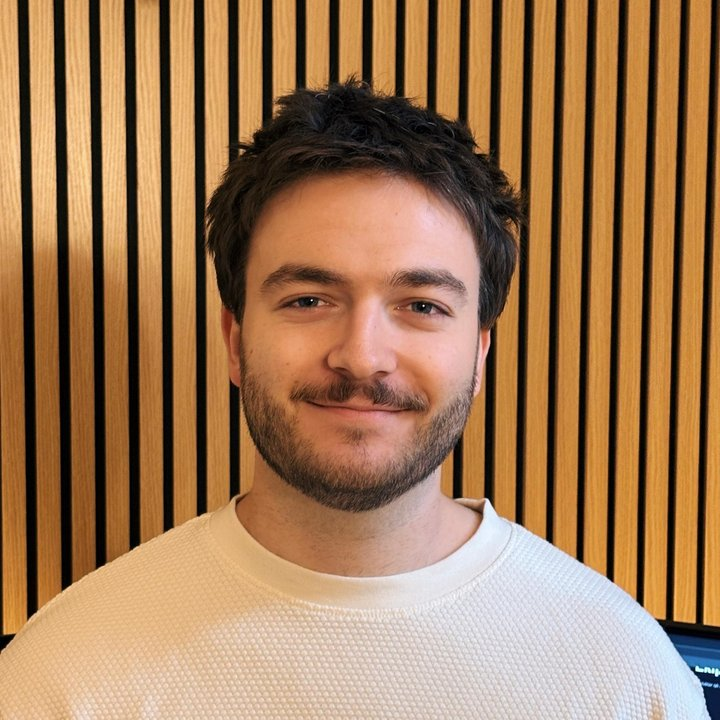
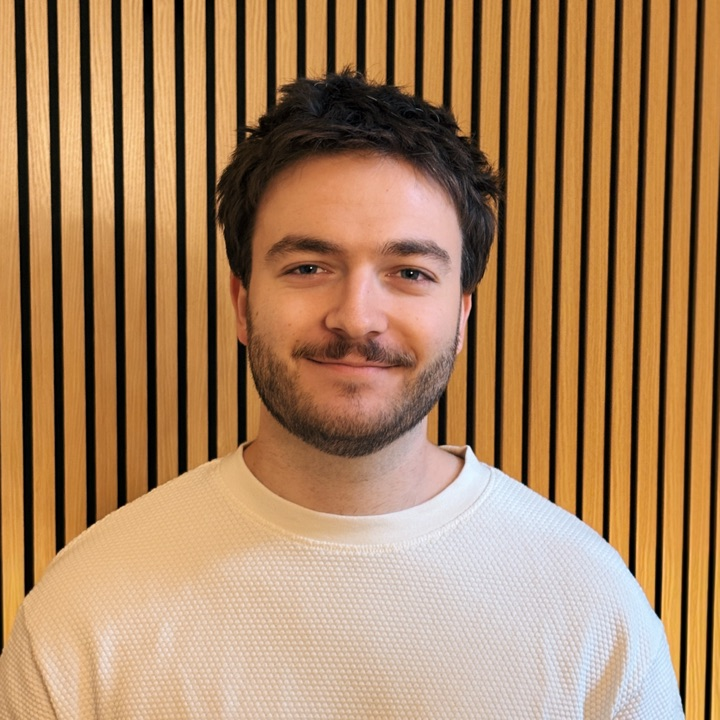
Add Hadrien Degiorgi to credits with portrait and LinkedIn link

diff --git a/credits/index.html b/credits/index.html
@@ -110,6 +110,14 @@
           <p class="credit-location">Belgium</p>
         </a>
       </li>
+      <li class="credit">
+        <a class="credit-link" href="https://www.linkedin.com/in/hadrien-degiorgi-662501140/" target="_blank" rel="noopener">
+          <img class="credit-portrait" src="/assets/credits-photos/hadrien.jpg" alt="Hadrien Degiorgi" loading="lazy" decoding="async" width="720" height="720">
+          <p class="credit-name">Hadrien Degiorgi</p>
+          <p class="credit-role">Co-author S1</p>
+          <p class="credit-location">France</p>
+        </a>
+      </li>
     </ul>
 
     <h2 class="credits-intro credits-intro--sub">Videographers</h2>
